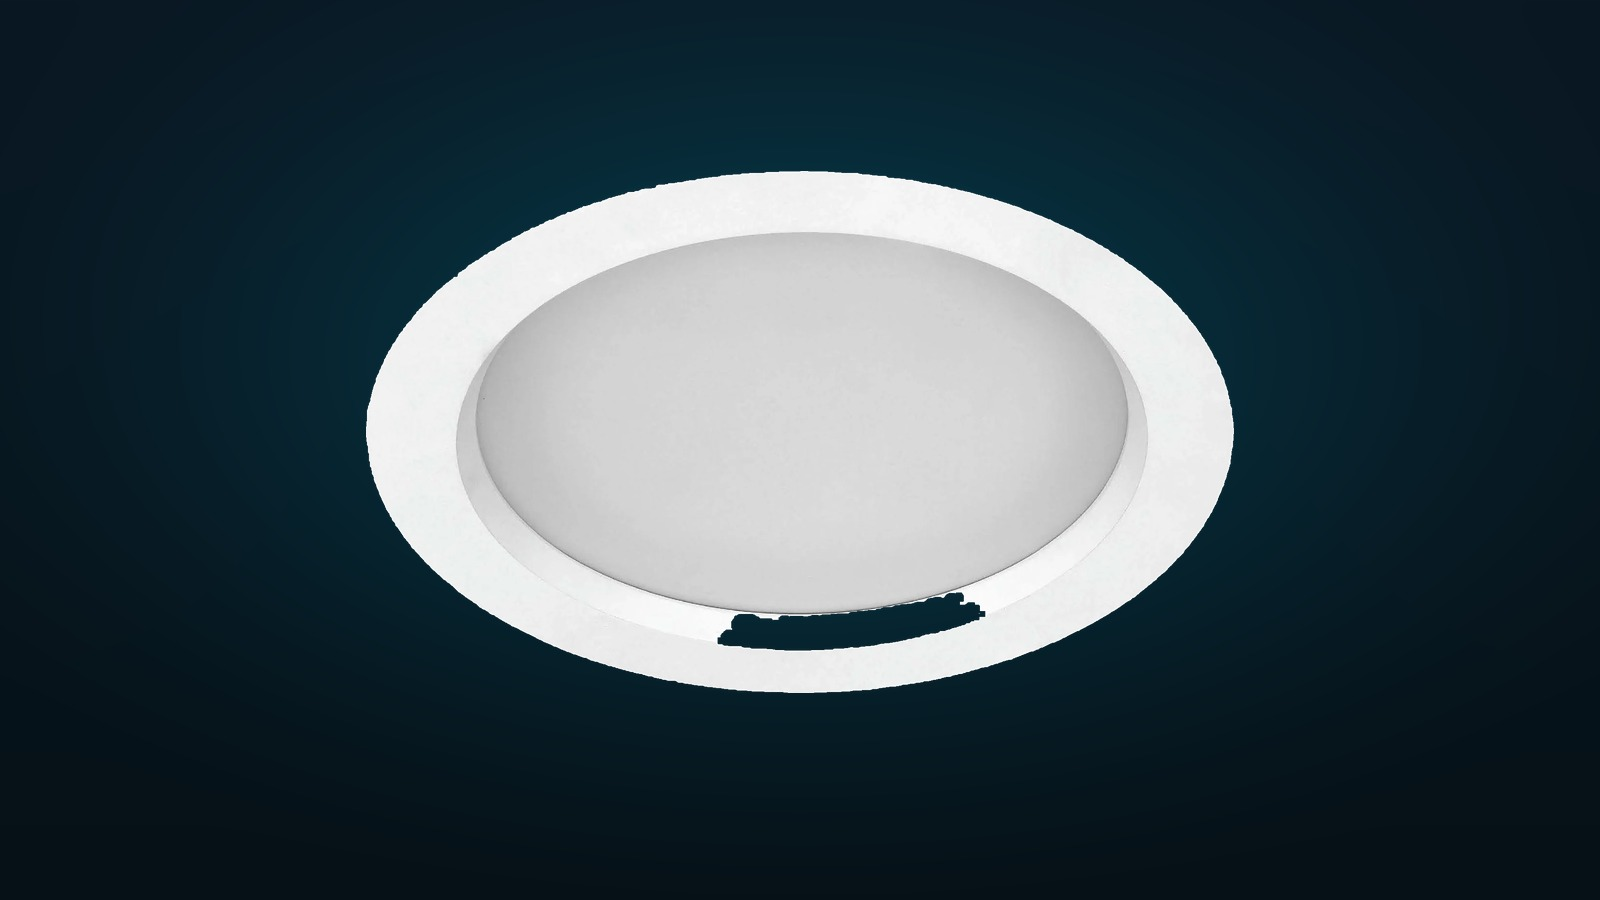
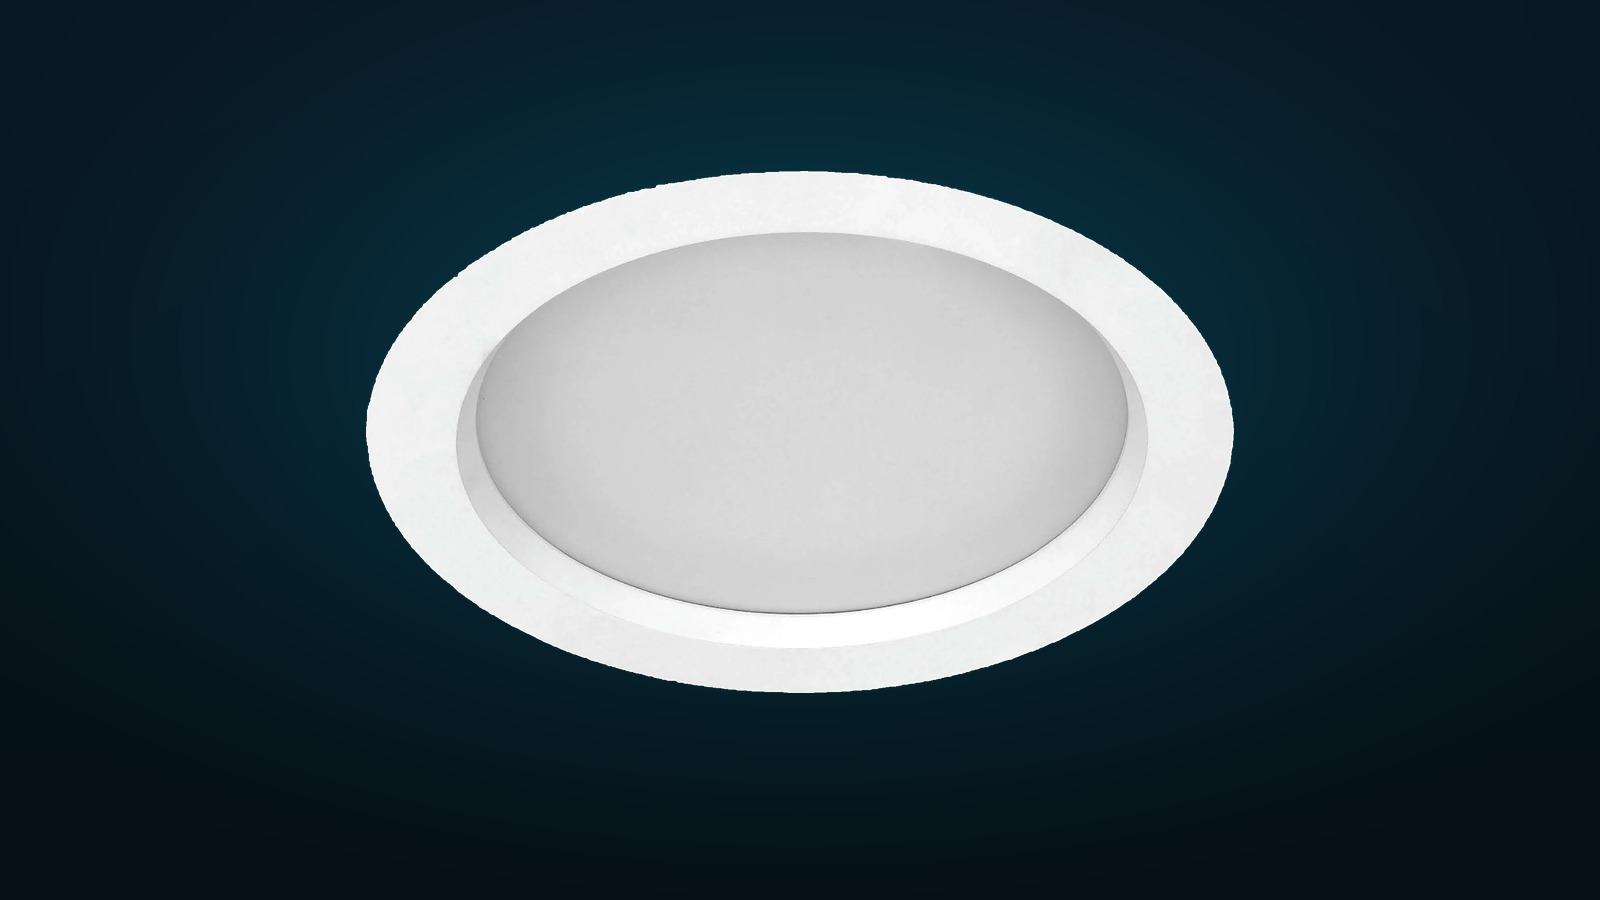
Fill the notch on the two panel downlights
Completing the post-BiRefNet visual pass over all 117 tiles. Two slugs — the same
fitting under two names — keep a small notch where the trim ring meets the
diffuser. Both go in FILL_HOLES.

Everything else came through clean, including the cases that had been failing:
Delta's panel hole, Sky SPT-150's torn edge, LF20 and LF55x80's ragged edges and
Zig Zag, which is now legible where isnet barely found it.

Changed region(s): [[0.4375, 0.6533, 0.625, 0.7467]]

diff --git a/scripts/make-cutouts.py b/scripts/make-cutouts.py
@@ -109,6 +109,10 @@ FILL_HOLES = {
     'sensors/is-3360-highbay',
     'sensors/is-345-highbay',
     'solar/sky-spt-150-solar-post-top',
+    # BiRefNet leaves a small notch where the trim ring meets the diffuser on this
+    # housing. Both slugs are the same fitting under two names.
+    'downlights/diffused-downlight',
+    'downlights/cob-adjustable-downlight',
 }
 
 
